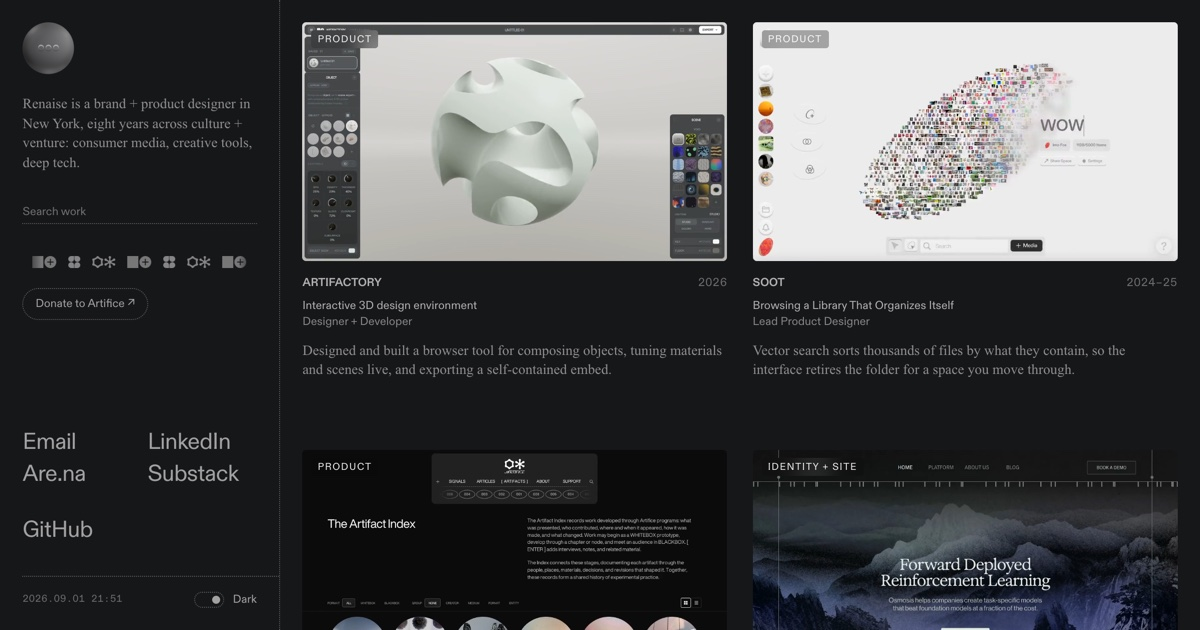
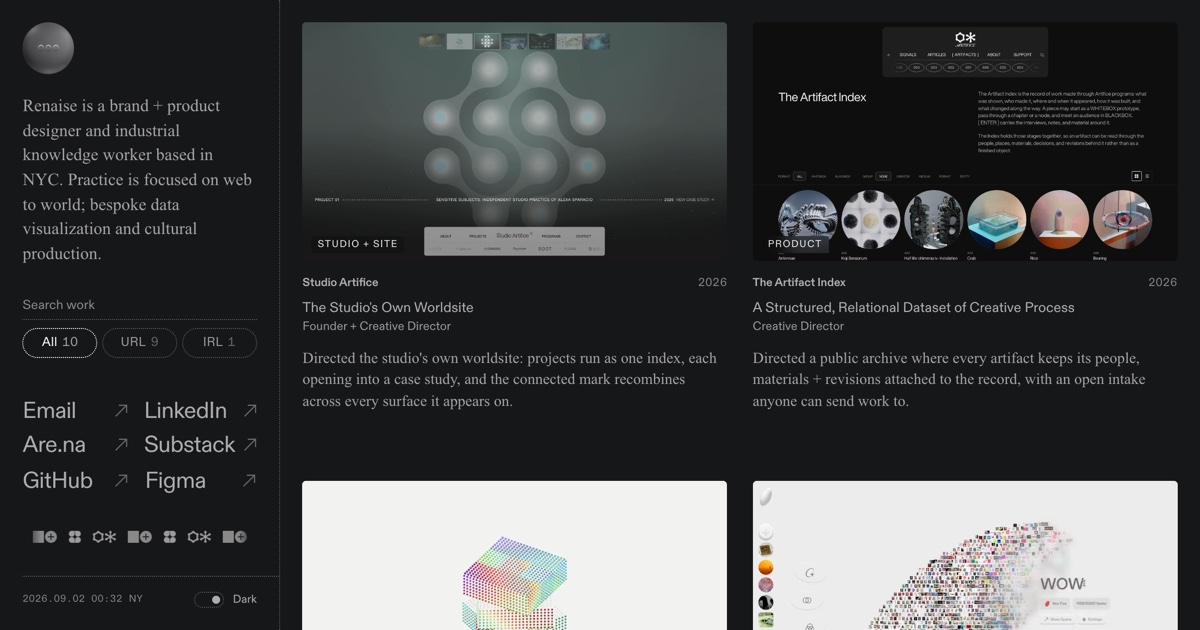
Search + tabs a step larger; social thumbnail regenerated from the current build

diff --git a/index.html b/index.html
@@ -181,7 +181,7 @@
   .find-in{display:flex;align-items:center;gap:.4rem;
     border-bottom:1px dotted var(--line);}
   .find input{flex:1;min-width:0;box-sizing:border-box;appearance:none;-webkit-appearance:none;
-    background:transparent;border:0;font-family:var(--sans);font-size:.72rem;line-height:1.14;
+    background:transparent;border:0;font-family:var(--sans);font-size:.82rem;line-height:1.2;
     color:var(--sw2);padding:.32rem 0;margin:0;border-radius:0;}
   .find input::placeholder{color:var(--sw4);}
   /* Focus lands on the rule, not in it: accent at full strength read as a lit wire in
@@ -204,8 +204,8 @@
   /* Three tabs sharing the rail width, each carrying the capsule so the set reads as
      one control rather than one button beside two words. */
   .filters button{appearance:none;background:transparent;cursor:pointer;flex:1 1 0;
-    font-family:var(--sans);font-size:.72rem;letter-spacing:.02em;color:var(--sw3);
-    border:1px dotted var(--line);border-radius:999px;padding:.3rem .45rem;
+    font-family:var(--sans);font-size:.8rem;letter-spacing:.02em;color:var(--sw3);
+    border:1px dotted var(--line);border-radius:999px;padding:.32rem .45rem;
     display:flex;align-items:baseline;justify-content:center;gap:.3rem;
     transition:color .2s,border-color .2s;}
   .filters button:hover{color:var(--accent);}
